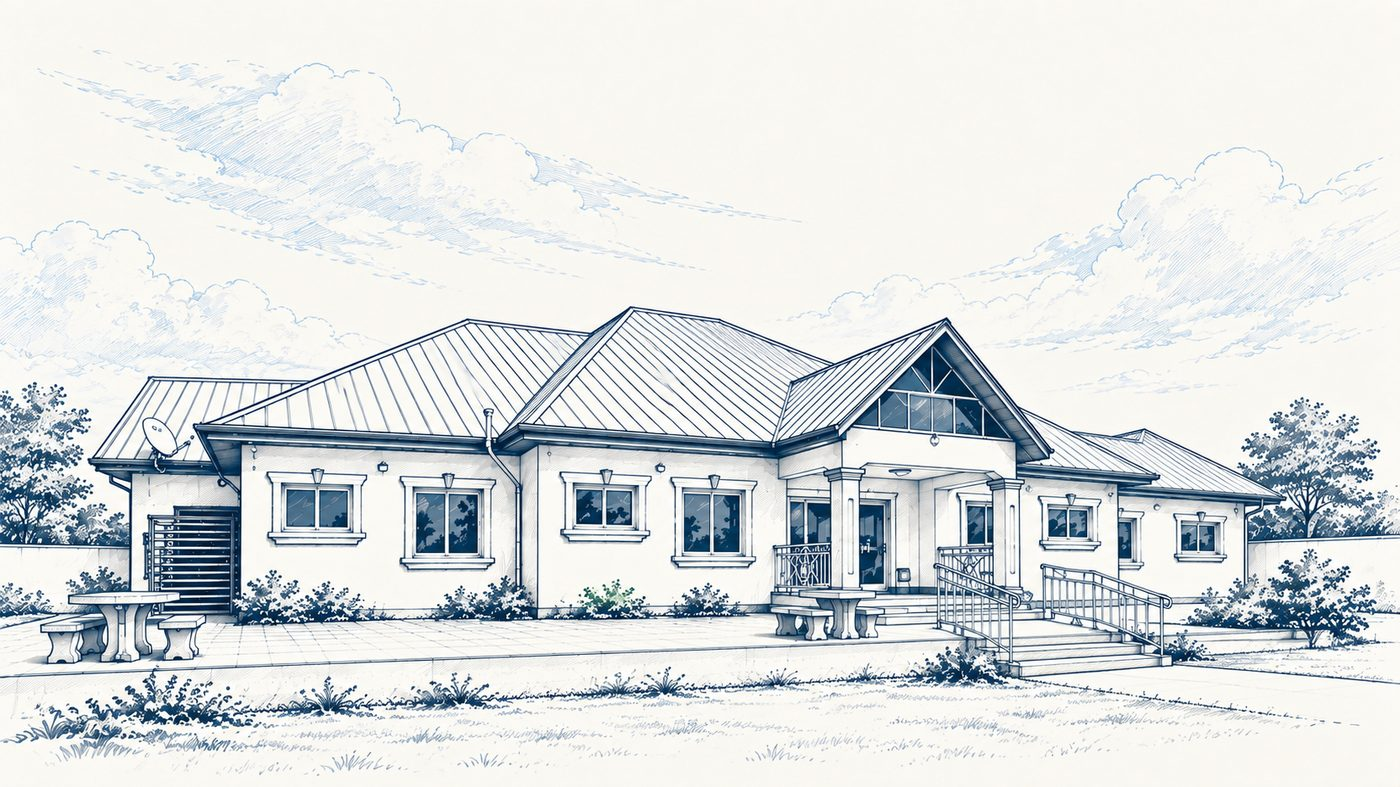
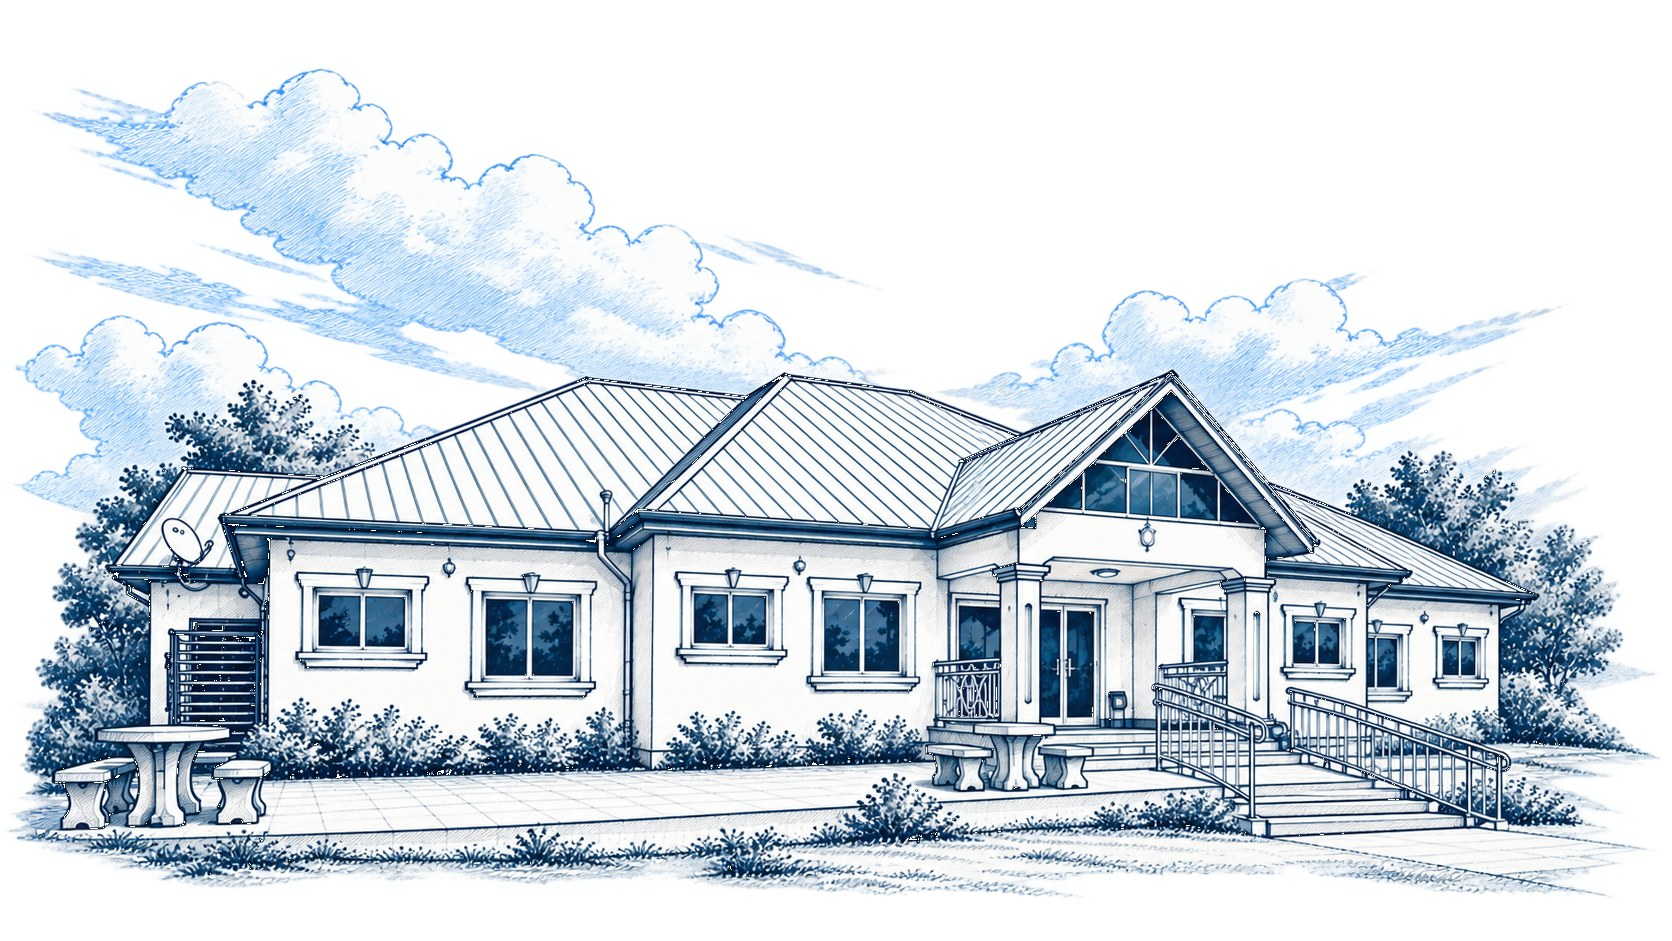
use hostel sketch as large blended coming-soon background

diff --git a/www/styles.css b/www/styles.css
@@ -1,10 +1,10 @@
-/* Kissmet Group — under-construction / coming-soon
-   Light page; brand palette accents from the emblem */
+/* Kissmet Group — coming soon
+   White page; hostel sketch as large blended background */
 
 :root {
   --bg: #ffffff;
   --fg: #1a1a1a;
-  --fg-muted: #5c5c5c;
+  --fg-muted: #4a4a4a;
   --gold: #b8860b;
   --red: #c62828;
   --green-soft: #2e7d32;
@@ -32,13 +32,14 @@ body {
   background: var(--bg);
   -webkit-font-smoothing: antialiased;
   text-rendering: optimizeLegibility;
+  overflow-x: hidden;
 }
 
 .skip-link {
   position: absolute;
   left: 1rem;
   top: -3rem;
-  z-index: 10;
+  z-index: 20;
   padding: 0.5rem 0.85rem;
   background: var(--gold);
   color: #111;
@@ -51,11 +52,36 @@ body {
   top: 1rem;
 }
 
+/* Large building sketch as page background — blends into white */
+.bg {
+  position: fixed;
+  inset: 0;
+  z-index: 0;
+  pointer-events: none;
+  display: flex;
+  align-items: flex-end;
+  justify-content: center;
+  background: var(--bg);
+}
+
+.bg picture,
+.bg img {
+  display: block;
+  width: min(132vw, 92rem);
+  max-width: none;
+  height: auto;
+  margin: 0 auto -4vh;
+  opacity: 0.55;
+  mix-blend-mode: multiply;
+  user-select: none;
+}
+
 .page {
   position: relative;
-  width: min(100% - 2.5rem, 56rem);
+  z-index: 1;
+  width: min(100% - 2.5rem, 48rem);
   margin: 0 auto;
-  padding: 2.75rem 0 11rem;
+  padding: 2.75rem 0 3rem;
   display: flex;
   flex-direction: column;
   align-items: center;
@@ -73,14 +99,17 @@ body {
   width: min(15.5rem, 62vw);
   height: auto;
   border: none;
-  border-radius: 0;
   background: transparent;
   box-shadow: none;
 }
 
 .content {
-  width: min(100%, 42rem);
+  width: min(100%, 40rem);
   text-align: center;
+  padding: 1.25rem 1.1rem 1.35rem;
+  border-radius: 1rem;
+  background: rgba(255, 255, 255, 0.78);
+  backdrop-filter: blur(6px);
 }
 
 .eyebrow {
@@ -111,44 +140,18 @@ h1 {
 .support {
   margin: 0 auto;
   max-width: 32rem;
-  color: #6e6e6e;
+  color: #5f5f5f;
   font-size: 0.98rem;
-}
-
-.building {
-  position: fixed;
-  left: max(1rem, env(safe-area-inset-left));
-  bottom: max(1rem, env(safe-area-inset-bottom));
-  z-index: 1;
-  margin: 0;
-  width: min(42vw, 22rem);
-  max-width: calc(100vw - 2rem);
-}
-
-.building-image {
-  display: block;
-  width: 100%;
-  height: auto;
-  border: none;
-  background: transparent;
-}
-
-.building figcaption {
-  margin: 0.4rem 0 0;
-  font-size: 0.7rem;
-  letter-spacing: 0.06em;
-  text-transform: uppercase;
-  color: #8a8a8a;
-  text-align: left;
 }
 
 .footer {
   margin-top: auto;
-  width: min(100%, 42rem);
+  width: min(100%, 40rem);
   text-align: center;
-  padding-top: 0.5rem;
-  position: relative;
-  z-index: 2;
+  padding: 0.85rem 1rem 0.25rem;
+  border-radius: 0.85rem;
+  background: rgba(255, 255, 255, 0.72);
+  backdrop-filter: blur(6px);
 }
 
 .accent-bar {
@@ -162,13 +165,12 @@ h1 {
 .footer p {
   margin: 0;
   font-size: 0.85rem;
-  color: #7a7a7a;
+  color: #6a6a6a;
 }
 
 @media (min-width: 720px) {
   .page {
-    padding-top: 3.5rem;
-    padding-bottom: 13rem;
+    padding-top: 3.25rem;
     gap: 2rem;
   }
 
@@ -176,20 +178,26 @@ h1 {
     width: 17rem;
   }
 
-  .building {
-    width: min(36vw, 26rem);
-    left: 1.5rem;
-    bottom: 1.5rem;
+  .bg img {
+    width: min(118vw, 96rem);
+    margin-bottom: -6vh;
+    opacity: 0.6;
+  }
+}
+
+@media (min-width: 1100px) {
+  .bg img {
+    width: min(105vw, 100rem);
+    opacity: 0.65;
   }
 }
 
 @media (max-width: 520px) {
-  .page {
-    padding-bottom: 9.5rem;
-  }
-
-  .building {
-    width: min(58vw, 14rem);
+  .bg img {
+    width: 165vw;
+    margin-left: -12vw;
+    margin-bottom: -2vh;
+    opacity: 0.5;
   }
 }
 
@@ -200,10 +208,18 @@ h1 {
 }
 
 @media (prefers-contrast: more) {
+  .content,
+  .footer {
+    background: #fff;
+  }
+
+  .bg img {
+    opacity: 0.35;
+  }
+
   .lede,
   .support,
-  .footer p,
-  .building figcaption {
+  .footer p {
     color: #222;
   }
 }

diff --git a/www/index.html b/www/index.html
@@ -13,6 +13,19 @@
 <body>
   <a class="skip-link" href="#main">Skip to content</a>
 
+  <div class="bg" aria-hidden="true">
+    <picture>
+      <source srcset="assets/hostel-sketch.webp" type="image/webp" />
+      <img
+        src="assets/hostel-sketch.jpg"
+        width="1672"
+        height="941"
+        alt=""
+        decoding="async"
+      />
+    </picture>
+  </div>
+
   <div class="page">
     <header class="brand" aria-label="Kissmet Group">
       <picture>
@@ -39,22 +52,6 @@
         while we finish the details.
       </p>
     </main>
-
-    <figure class="building">
-      <picture>
-        <source srcset="assets/hostel-sketch.webp" type="image/webp" />
-        <img
-          class="building-image"
-          src="assets/hostel-sketch.jpg"
-          width="1400"
-          height="787"
-          alt="Architectural sketch of the Kissmet Hostel building facade with entrance portico and landscaped grounds"
-          loading="eager"
-          decoding="async"
-        />
-      </picture>
-      <figcaption>Kissmet Hostel — coming soon</figcaption>
-    </figure>
 
     <footer class="footer">
       <div class="accent-bar" aria-hidden="true"></div>
